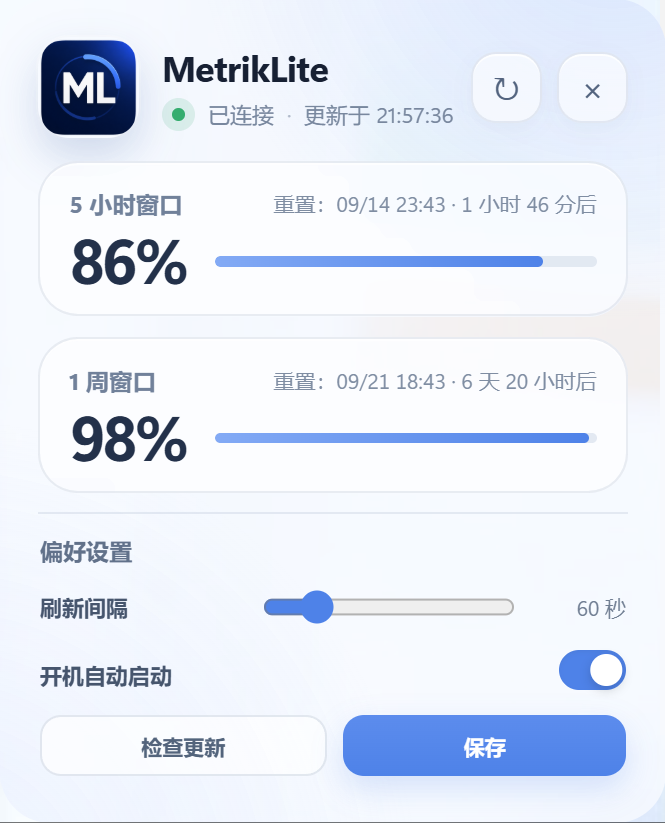
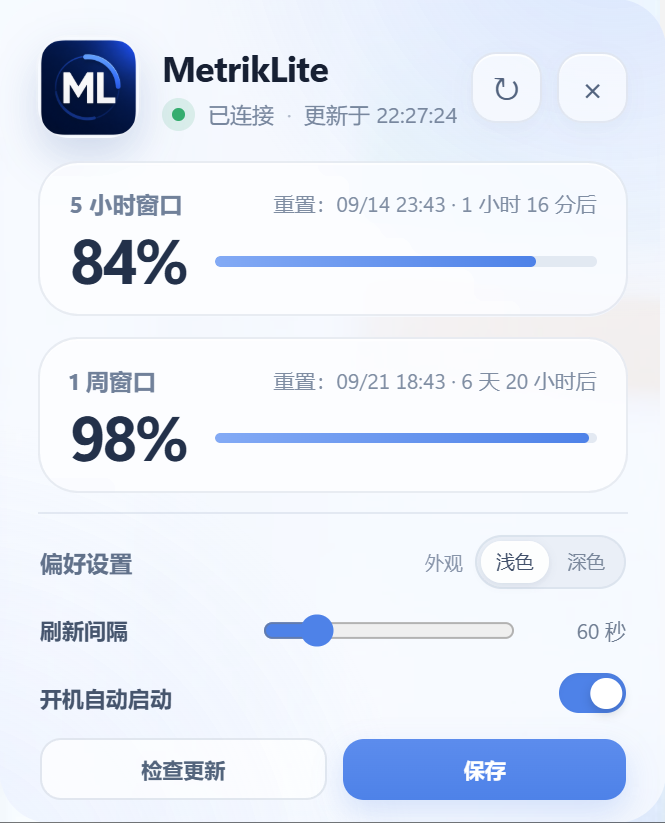
feat: add selectable dark theme

diff --git a/src/styles.css b/src/styles.css
@@ -156,6 +156,11 @@ h1 { font-size: 17px; font-weight: 720; letter-spacing: -0.35px; }
 }
 .settings-heading { justify-content: space-between; margin-bottom: 5px; }
 .section-title { color: #61718a; font-size: 11px; font-weight: 700; }
+.theme-picker { display: flex; align-items: center; gap: 6px; }
+.theme-picker > span { color: #8794a9; font-size: 9px; }
+.theme-segment { display: flex; gap: 2px; padding: 2px; border: 1px solid rgba(126, 145, 177, 0.13); border-radius: 999px; background: rgba(226, 232, 242, 0.58); }
+.theme-segment button { min-width: 31px; height: 20px; padding: 2px 7px; border: 0; border-radius: 999px; color: #7a879b; background: transparent; cursor: pointer; font-size: 9px; line-height: 1; transition: color .16s ease, background .16s ease, box-shadow .16s ease; }
+.theme-segment button[aria-pressed="true"] { color: #42516b; background: rgba(255, 255, 255, .9); box-shadow: 0 1px 4px rgba(55, 74, 109, .12), inset 0 1px 0 rgba(255, 255, 255, .8); }
 .setting-row { display: flex; min-height: 29px; align-items: center; justify-content: space-between; gap: 12px; }
 .setting-row > strong, .toggle-row strong { color: #46556d; font-size: 10.5px; font-weight: 650; }
 .setting-row > strong { flex: 0 0 auto; white-space: nowrap; }
@@ -184,6 +189,38 @@ output { width: 43px; color: #6f7d92; font-size: 10px; text-align: right; }
 .sheet-actions button { flex: 1; }
 .toast { position: absolute; left: 50%; bottom: 17px; z-index: 10; max-width: 88%; padding: 8px 12px; transform: translateX(-50%); border-radius: 11px; color: white; background: rgba(37, 48, 68, .91); box-shadow: 0 8px 25px rgba(20, 30, 50, .22); font-size: 10px; text-align: center; }
 .hidden { display: none !important; }
+
+html[data-theme="dark"] { color-scheme: dark; }
+html[data-theme="dark"] body { color: #f4f7ff; }
+html[data-theme="dark"] .panel {
+  background:
+    radial-gradient(circle at 92% -12%, rgba(91, 133, 236, 0.3), transparent 38%),
+    radial-gradient(circle at -10% 110%, rgba(50, 83, 157, 0.24), transparent 42%),
+    rgba(17, 21, 30, 0.92);
+}
+html[data-theme="dark"] #status-line { color: #a8b4cb; }
+html[data-theme="dark"] .status-separator { color: #69758b; }
+html[data-theme="dark"] .icon-button { border-color: rgba(255, 255, 255, .12); color: #d5def0; background: rgba(255, 255, 255, .09); box-shadow: inset 0 1px 0 rgba(255, 255, 255, .1); }
+html[data-theme="dark"] .icon-button:hover { background: rgba(255, 255, 255, .16); box-shadow: inset 0 1px 0 rgba(255, 255, 255, .14); }
+html[data-theme="dark"] .quota-card { border-color: rgba(255, 255, 255, .12); background: rgba(42, 49, 64, .62); box-shadow: inset 0 1px 0 rgba(255, 255, 255, .09); }
+html[data-theme="dark"] .window-label { color: #b2bed4; }
+html[data-theme="dark"] .reset-line { color: #a9b5ca; }
+html[data-theme="dark"] .quota-percent { color: #f4f7ff; }
+html[data-theme="dark"] .meter { background: rgba(148, 163, 184, .22); }
+html[data-theme="dark"] .empty-symbol { color: #ffaaa5; background: rgba(122, 54, 63, .34); }
+html[data-theme="dark"] .empty-state p { color: #a9b5ca; }
+html[data-theme="dark"] .settings-content { border-color: rgba(255, 255, 255, .12); }
+html[data-theme="dark"] .section-title { color: #aebbd2; }
+html[data-theme="dark"] .theme-picker > span { color: #8795ad; }
+html[data-theme="dark"] .theme-segment { border-color: rgba(255, 255, 255, .1); background: rgba(7, 10, 16, .34); }
+html[data-theme="dark"] .theme-segment button { color: #8794aa; }
+html[data-theme="dark"] .theme-segment button[aria-pressed="true"] { color: #eef3ff; background: rgba(93, 111, 145, .72); box-shadow: 0 1px 4px rgba(0, 0, 0, .24), inset 0 1px 0 rgba(255, 255, 255, .13); }
+html[data-theme="dark"] .setting-row > strong, html[data-theme="dark"] .toggle-row strong { color: #c3cee1; }
+html[data-theme="dark"] output { color: #a9b5ca; }
+html[data-theme="dark"] .toggle-row i { background: #465269; box-shadow: inset 0 1px 2px rgba(0, 0, 0, .22); }
+html[data-theme="dark"] .toggle-row i::after { background: #f7f9ff; box-shadow: 0 2px 5px rgba(0, 0, 0, .34); }
+html[data-theme="dark"] .secondary-button { border-color: rgba(255, 255, 255, .14); color: #d5def0; background: rgba(255, 255, 255, .08); }
+html[data-theme="dark"] .primary-button { background: linear-gradient(180deg, #709df3, #4e82e8); box-shadow: 0 6px 14px rgba(32, 65, 135, .3); }
 
 @media (prefers-reduced-motion: reduce) {
   *, *::before, *::after { animation-duration: .01ms !important; transition-duration: .01ms !important; }

diff --git a/src/main.js b/src/main.js
@@ -13,6 +13,8 @@ const elements = {
   refreshSeconds: $("#refresh-seconds"),
   refreshOutput: $("#refresh-output"),
   autostart: $("#autostart"),
+  lightTheme: $("#light-theme-button"),
+  darkTheme: $("#dark-theme-button"),
   toast: $("#toast"),
 };
 
@@ -86,8 +88,16 @@ function renderState(state) {
     : "等待更新";
 }
 
+function applyTheme(theme) {
+  const normalized = theme === "dark" ? "dark" : "light";
+  document.documentElement.dataset.theme = normalized;
+  elements.lightTheme.setAttribute("aria-pressed", String(normalized === "light"));
+  elements.darkTheme.setAttribute("aria-pressed", String(normalized === "dark"));
+}
+
 function populateSettings(nextConfig) {
   config = structuredClone(nextConfig);
+  applyTheme(config.theme);
   elements.refreshSeconds.value = config.refresh_seconds;
   elements.refreshOutput.textContent = `${config.refresh_seconds} 秒`;
   elements.autostart.checked = config.autostart;
@@ -116,6 +126,7 @@ async function refresh() {
 async function saveSettings() {
   const next = {
     ...config,
+    theme: document.documentElement.dataset.theme === "dark" ? "dark" : "light",
     refresh_seconds: Number(elements.refreshSeconds.value),
     autostart: elements.autostart.checked,
   };
@@ -169,6 +180,8 @@ $("#check-update-button").addEventListener("click", checkUpdate);
 elements.refreshSeconds.addEventListener("input", () => {
   elements.refreshOutput.textContent = `${elements.refreshSeconds.value} 秒`;
 });
+elements.lightTheme.addEventListener("click", () => applyTheme("light"));
+elements.darkTheme.addEventListener("click", () => applyTheme("dark"));
 document.addEventListener("keydown", (event) => {
   if (event.key !== "Escape") return;
   invoke("hide_panel");

diff --git a/src/index.html b/src/index.html
@@ -3,7 +3,7 @@
   <head>
     <meta charset="UTF-8" />
     <meta name="viewport" content="width=device-width, initial-scale=1.0" />
-    <meta name="color-scheme" content="light" />
+    <meta name="color-scheme" content="light dark" />
     <title>MetrikLite</title>
     <link rel="stylesheet" href="./styles.css" />
   </head>
@@ -61,6 +61,13 @@
       <section id="settings-content" class="settings-content" aria-label="设置">
         <div class="settings-heading">
           <span class="section-title">偏好设置</span>
+          <div class="theme-picker" role="group" aria-label="主题">
+            <span>外观</span>
+            <div class="theme-segment">
+              <button id="light-theme-button" type="button" aria-pressed="true">浅色</button>
+              <button id="dark-theme-button" type="button" aria-pressed="false">深色</button>
+            </div>
+          </div>
         </div>
 
         <div class="setting-row">

diff --git a/src-tauri/src/config.rs b/src-tauri/src/config.rs
@@ -13,6 +13,8 @@ pub struct AppConfig {
     pub light_glyphs: bool,
     #[serde(alias = "AutoStart")]
     pub autostart: bool,
+    #[serde(alias = "Theme")]
+    pub theme: String,
 }
 
 impl Default for AppConfig {
@@ -22,6 +24,7 @@ impl Default for AppConfig {
             refresh_seconds: 30,
             light_glyphs: false,
             autostart: false,
+            theme: "light".into(),
         }
     }
 }
@@ -33,6 +36,9 @@ impl AppConfig {
         // config files can still be deserialized without a migration step.
         self.codex_binary_path = None;
         self.light_glyphs = false;
+        if self.theme != "dark" {
+            self.theme = "light".into();
+        }
         self
     }
 }

diff --git a/README.en.md b/README.en.md
@@ -27,9 +27,10 @@
 ## Screenshots
 
 <p align="center">
-  <img src="./docs/images/quota-panel.png" width="520" alt="MetrikLite main panel with quota windows and preferences">
-  <br><strong>Main panel: both quota windows and embedded preferences</strong><br>
-  The current version keeps quota details, refresh interval, autostart, update checks, and save actions on one page.
+  <img src="./docs/images/quota-panel.png" width="360" alt="MetrikLite main panel in light appearance">
+  <img src="./docs/images/quota-panel-dark.png" width="360" alt="MetrikLite main panel in dark appearance">
+  <br><strong>Main panel: light and Apple-inspired dark appearances</strong><br>
+  Both quota windows, reset times, refresh interval, autostart, update checks, and save actions stay on one page.
 </p>
 
 <p align="center">
@@ -48,6 +49,7 @@ MetrikLite renders the Codex **5-hour remaining percentage** as a numeric Window
 - Multi-monitor and high-DPI aware positioning with complete rounded corners.
 - One persistent local Codex app-server session reused across refreshes.
 - Current-user autostart, manual refresh, automatic CLI discovery, and update checks.
+- Light and Apple-inspired dark themes, persisted locally with the other preferences.
 - Rust + Tauri 2; the official NSIS installer is approximately 1.3 MB.
 
 > The tray number uses the 5-hour window, while the main panel and hover text show both the 5-hour and weekly windows.
